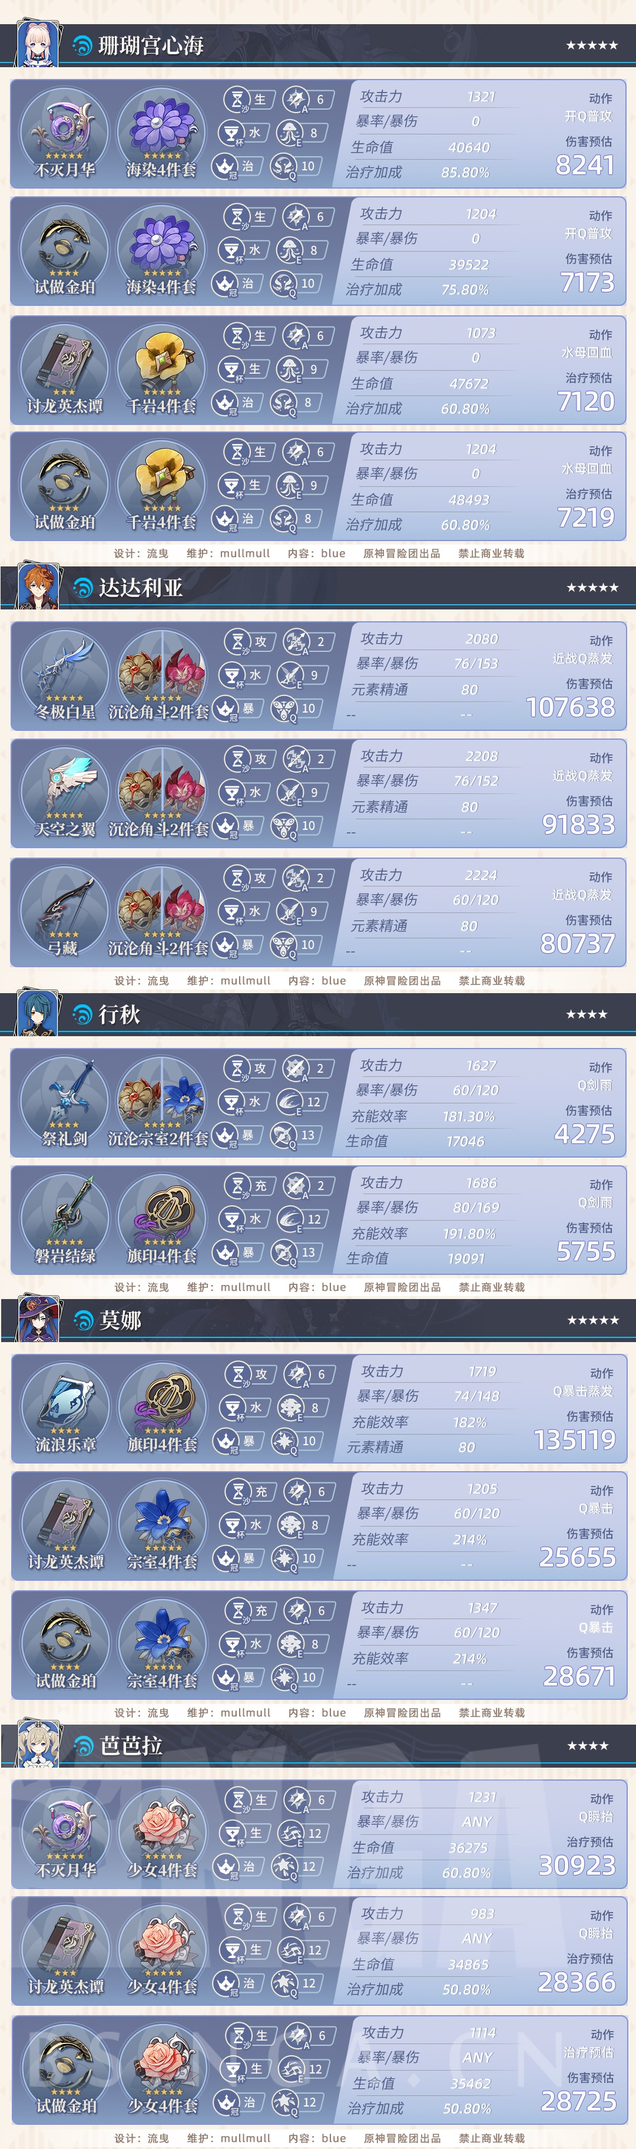
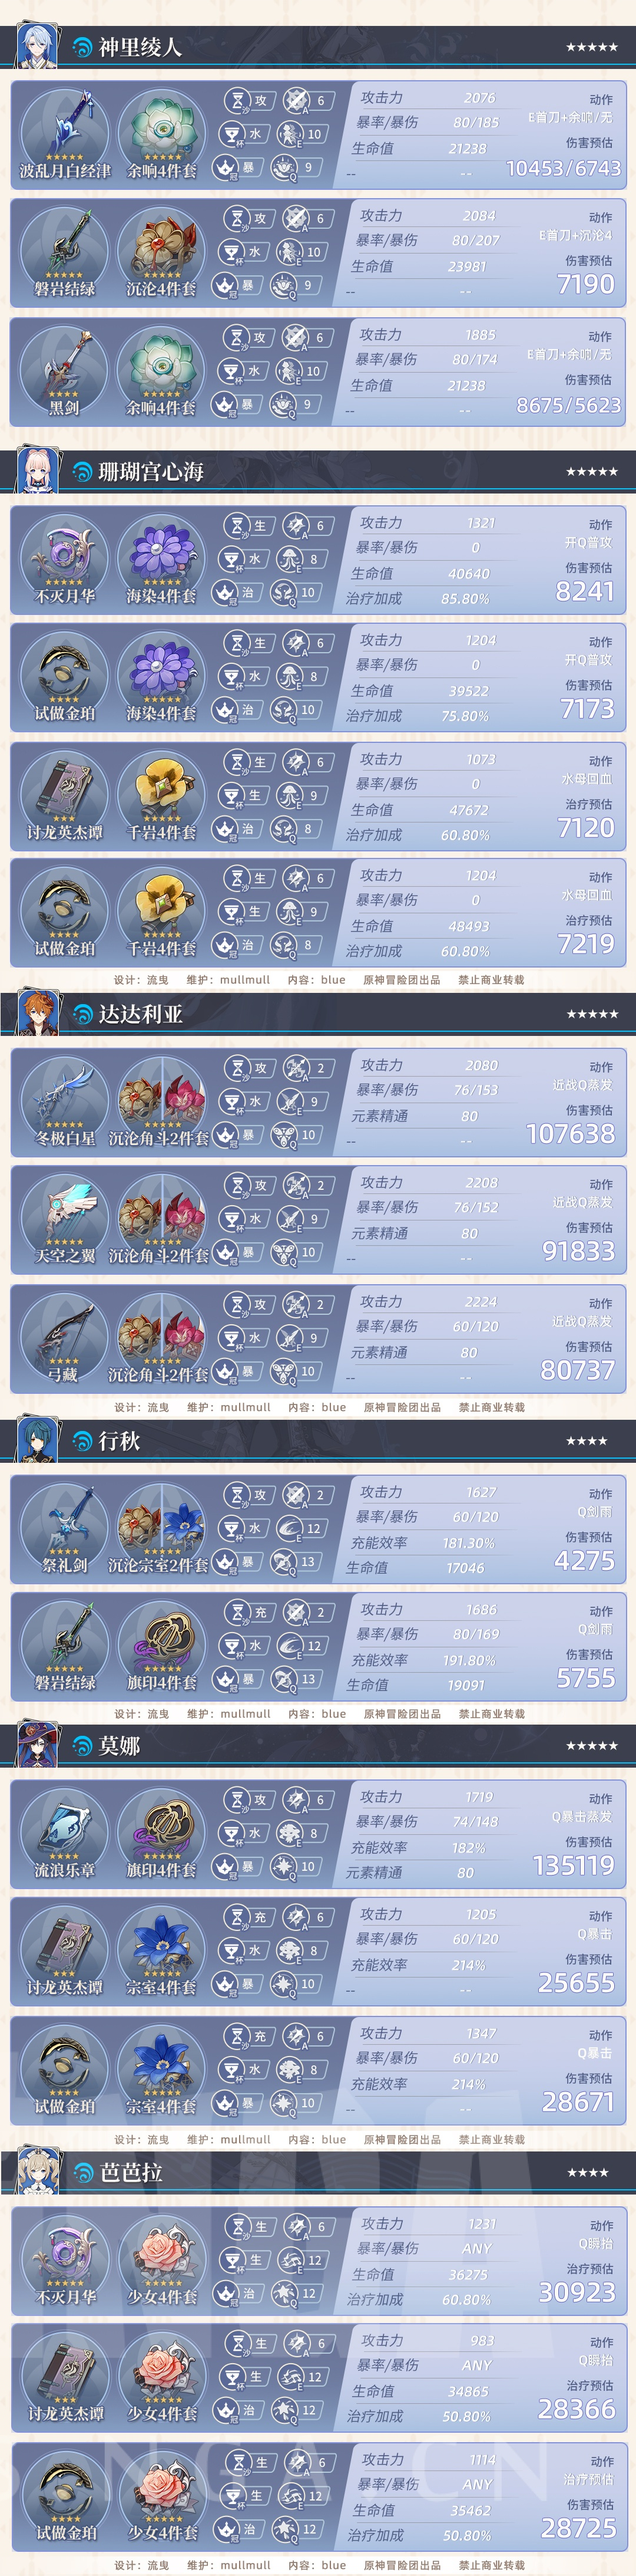
更新绫人和魈参考面板

diff --git a/hoshino/modules/Genshin_Paimon/game_guild/blue.py b/hoshino/modules/Genshin_Paimon/game_guild/blue.py
@@ -9,11 +9,12 @@ blue={
     '安柏': ['火', (5511, 6047)],
     '香菱': ['火', (6047, 6982)],
     '班尼特': ['火', (6982, 7932)],
-    '珊瑚宫心海': ['水', (0, 950)],
-    '达达利亚': ['水', (950, 1674)],
-    '行秋': ['水', (1674, 2195)],
-    '莫娜': ['水', (2195, 2916)],
-    '芭芭拉': ['水', (2916, 3646)],
+    '神里绫人': ['水', (0, 750)],
+    '珊瑚宫心海': ['水', (750, 1700)],
+    '达达利亚': ['水', (1700, 2424)],
+    '行秋': ['水', (2424, 2495)],
+    '莫娜': ['水', (2495, 3666)],
+    '芭芭拉': ['水', (3666, 4396)],
     '申鹤': ['冰', (0, 959)],
     '神里绫华': ['冰', (959, 1496)],
     '优菈': ['冰', (1496, 2231)],
